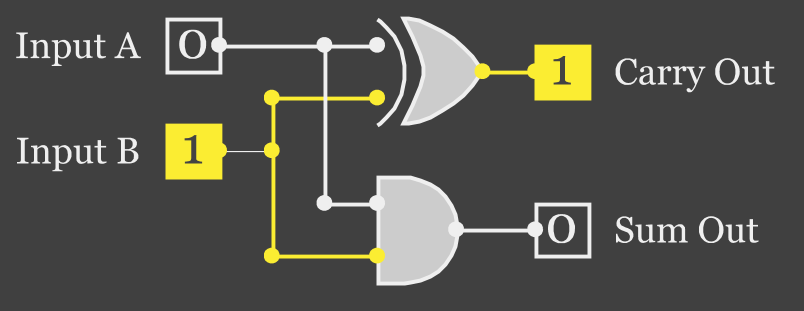
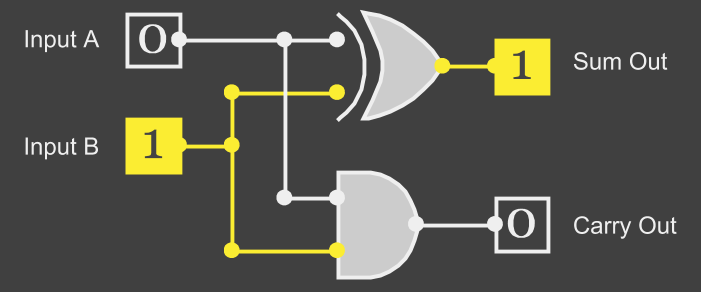
GitBook: [master] one page and 6 assets modified

Changed region(s): [[0.0, 0.0308, 0.9886, 0.9863]]

diff --git a/script/1-bits.md b/script/1-bits.md
@@ -2,9 +2,11 @@
 
 ## Adding Bits
 
+![](../.gitbook/assets/addition-example-step-1%20%281%29.png)
+
 The following figure shows a so called _half adder_. It consists of two logic gates connected to two input and two output bits.
 
-![A half adder made of logic gates.](../.gitbook/assets/half-adder.png)
+![](../.gitbook/assets/half-adder.png)
 
 {% embed url="https://homepage.cs.uri.edu/faculty/wolfe/book/Readings/Reading02.htm" %}
 
